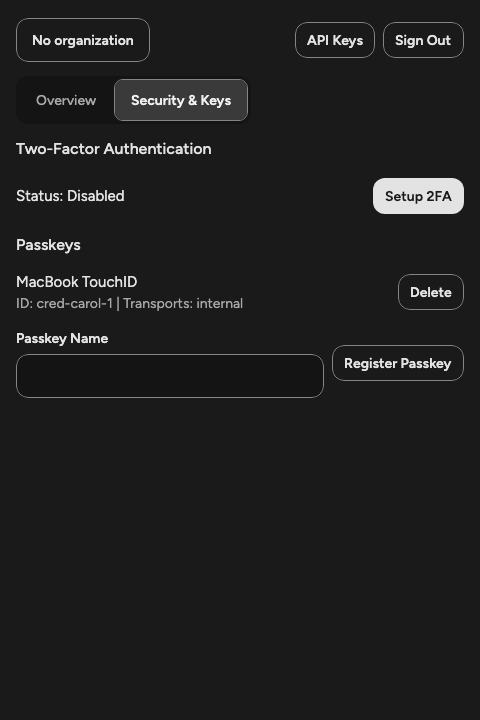
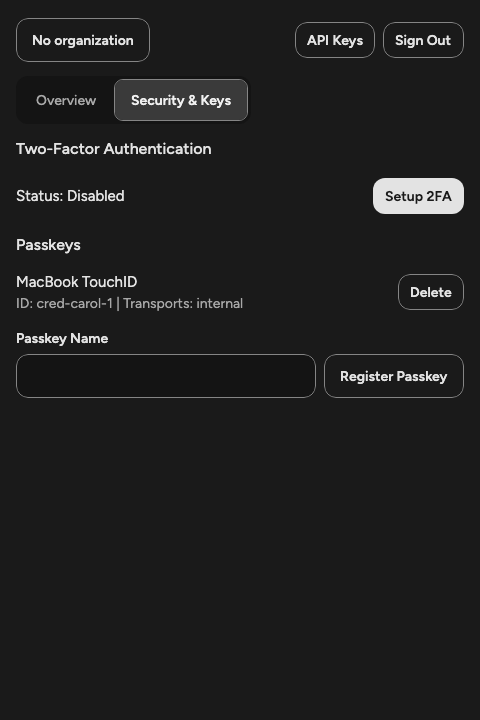
fix(#42): align Passkey Name input field and Register Passkey button

Changed region(s): [[0.6562, 0.4889, 0.9688, 0.55]]

diff --git a/sample/src/commonMain/kotlin/dev/fediim/auth/sample/presentation/ui/AuthenticatedWorkspaceScreen.kt b/sample/src/commonMain/kotlin/dev/fediim/auth/sample/presentation/ui/AuthenticatedWorkspaceScreen.kt
@@ -6,8 +6,10 @@ import androidx.compose.foundation.layout.Row
 import androidx.compose.foundation.layout.fillMaxWidth
 import androidx.compose.foundation.rememberScrollState
 import androidx.compose.foundation.verticalScroll
+import androidx.compose.material3.LocalMinimumInteractiveComponentSize
 import androidx.compose.material3.Text
 import androidx.compose.runtime.Composable
+import androidx.compose.runtime.CompositionLocalProvider
 import androidx.compose.runtime.collectAsState
 import androidx.compose.runtime.getValue
 import androidx.compose.runtime.mutableStateOf
@@ -15,6 +17,7 @@ import androidx.compose.runtime.remember
 import androidx.compose.runtime.setValue
 import androidx.compose.ui.Alignment
 import androidx.compose.ui.Modifier
+import androidx.compose.ui.platform.testTag
 import dev.fediim.auth.compose.ApiKeyViewModel
 import dev.fediim.auth.compose.AuthUiIntent
 import dev.fediim.auth.compose.BetterAuthViewModel
@@ -29,6 +32,7 @@ import dev.fediim.fds.components.CodeBlock
 import dev.fediim.fds.components.SegmentedControl
 import dev.fediim.fds.components.TextField
 import dev.fediim.fds.theme.FediimTheme
+import dev.fediim.fds.tokens.FediimSize
 import dev.fediim.fds.tokens.FediimSpace
 
 /**
@@ -222,24 +226,26 @@ public fun AuthenticatedWorkspaceScreen(
         Row(
             modifier = Modifier.fillMaxWidth(),
             horizontalArrangement = Arrangement.spacedBy(FediimSpace.Space2),
-            verticalAlignment = Alignment.CenterVertically,
+            verticalAlignment = Alignment.Bottom,
         ) {
           TextField(
               value = newPasskeyName,
               onValueChange = { newPasskeyName = it },
               label = "Passkey Name",
-              modifier = Modifier.weight(1f),
+              modifier = Modifier.weight(1f).testTag("sample.passkeyName"),
           )
-          Button(
-              text = "Register Passkey",
-              onClick = {
-                val name = newPasskeyName.ifBlank { "My Security Key" }
-                workspaceViewModel.registerPasskey(name)
-                newPasskeyName = ""
-              },
-              size = ButtonSize.Small,
-              variant = ButtonVariant.Secondary,
-          )
+          CompositionLocalProvider(LocalMinimumInteractiveComponentSize provides FediimSize.Touch) {
+            Button(
+                text = "Register Passkey",
+                onClick = {
+                  val name = newPasskeyName.ifBlank { "My Security Key" }
+                  workspaceViewModel.registerPasskey(name)
+                  newPasskeyName = ""
+                },
+                size = ButtonSize.Medium,
+                variant = ButtonVariant.Secondary,
+            )
+          }
         }
       }
     }

diff --git a/sample/src/jvmTest/kotlin/dev/fediim/auth/sample/SampleAppUiTest.kt b/sample/src/jvmTest/kotlin/dev/fediim/auth/sample/SampleAppUiTest.kt
@@ -6,12 +6,14 @@ import androidx.compose.ui.test.ComposeUiTest
 import androidx.compose.ui.test.ExperimentalTestApi
 import androidx.compose.ui.test.onAllNodesWithTag
 import androidx.compose.ui.test.onAllNodesWithText
+import androidx.compose.ui.test.onNodeWithTag
 import androidx.compose.ui.test.onNodeWithText
 import androidx.compose.ui.test.performClick
 import androidx.compose.ui.test.performTextReplacement
 import androidx.compose.ui.test.v2.runDesktopComposeUiTest
 import dev.fediim.auth.sample.di.SampleAppContainer
 import dev.fediim.auth.sample.presentation.ui.SampleApp
+import kotlin.math.abs
 import kotlin.test.Test
 import kotlin.test.assertTrue
 
@@ -57,6 +59,19 @@ class SampleAppUiTest {
         onNodeWithText("Security & Keys").performClick()
         waitForIdle()
 
+        val passkeyFieldBounds =
+            onNodeWithTag("sample.passkeyName").fetchSemanticsNode().boundsInRoot
+        val registerButtonBounds =
+            onNodeWithText("Register Passkey").fetchSemanticsNode().boundsInRoot
+        assertTrue(
+            abs(passkeyFieldBounds.bottom - registerButtonBounds.bottom) <= 1f,
+            "Expected Passkey Name input bottom (${passkeyFieldBounds.bottom}) and Register Passkey button bottom (${registerButtonBounds.bottom}) to align within 1dp",
+        )
+        assertTrue(
+            abs(registerButtonBounds.height - 44f) <= 1f,
+            "Expected Register Passkey button height (${registerButtonBounds.height}) to be 44dp",
+        )
+
         // 5. Register and delete passkey
         onNodeWithText("Register Passkey").performClick()
         until("Passkey registered") { hasText("My Security Key", substring = true) }
@@ -86,6 +101,16 @@ class SampleAppUiTest {
         // 10. Validated Live Server URL error banner
         onNodeWithText("Live Server").performClick()
         waitForIdle()
+        val urlFieldBounds = onNodeWithTag("sample.liveServerUrl").fetchSemanticsNode().boundsInRoot
+        val connectButtonBounds = onNodeWithText("Connect").fetchSemanticsNode().boundsInRoot
+        assertTrue(
+            abs(urlFieldBounds.bottom - connectButtonBounds.bottom) <= 1f,
+            "Expected Live Server URL input bottom (${urlFieldBounds.bottom}) and Connect button bottom (${connectButtonBounds.bottom}) to align within 1dp",
+        )
+        assertTrue(
+            abs(connectButtonBounds.height - 44f) <= 1f,
+            "Expected Connect button height (${connectButtonBounds.height}) to be 44dp",
+        )
         onNodeWithText("http://127.0.0.1:3000").performTextReplacement("http://evil.example.com")
         waitForIdle()
         onNodeWithText("Connect").performClick()

diff --git a/sample/src/commonMain/kotlin/dev/fediim/auth/sample/presentation/ui/SampleApp.kt b/sample/src/commonMain/kotlin/dev/fediim/auth/sample/presentation/ui/SampleApp.kt
@@ -7,8 +7,10 @@ import androidx.compose.foundation.layout.Row
 import androidx.compose.foundation.layout.fillMaxSize
 import androidx.compose.foundation.layout.fillMaxWidth
 import androidx.compose.foundation.layout.padding
+import androidx.compose.material3.LocalMinimumInteractiveComponentSize
 import androidx.compose.material3.Text
 import androidx.compose.runtime.Composable
+import androidx.compose.runtime.CompositionLocalProvider
 import androidx.compose.runtime.collectAsState
 import androidx.compose.runtime.getValue
 import androidx.compose.runtime.mutableStateOf
@@ -16,6 +18,7 @@ import androidx.compose.runtime.remember
 import androidx.compose.runtime.setValue
 import androidx.compose.ui.Alignment
 import androidx.compose.ui.Modifier
+import androidx.compose.ui.platform.testTag
 import dev.fediim.auth.fds.ApiKeyManagerDialog
 import dev.fediim.auth.fds.BetterAuthDialog
 import dev.fediim.auth.fds.TwoFactorSetupDialog
@@ -30,6 +33,7 @@ import dev.fediim.fds.components.ButtonVariant
 import dev.fediim.fds.components.SegmentedControl
 import dev.fediim.fds.components.TextField
 import dev.fediim.fds.theme.FediimTheme
+import dev.fediim.fds.tokens.FediimSize
 import dev.fediim.fds.tokens.FediimSpace
 
 /**
@@ -109,20 +113,22 @@ public fun SampleApp(
         Row(
             modifier = Modifier.fillMaxWidth(),
             horizontalArrangement = Arrangement.spacedBy(FediimSpace.Space2),
-            verticalAlignment = Alignment.CenterVertically,
+            verticalAlignment = Alignment.Bottom,
         ) {
           TextField(
               value = liveUrlInput,
               onValueChange = { liveUrlInput = it },
               label = "Live Server URL",
-              modifier = Modifier.weight(1f),
+              modifier = Modifier.weight(1f).testTag("sample.liveServerUrl"),
           )
-          Button(
-              text = "Connect",
-              onClick = { workspaceVm.switchEnvironment(BackendMode.LIVE_SERVER, liveUrlInput) },
-              size = ButtonSize.Small,
-              variant = ButtonVariant.Primary,
-          )
+          CompositionLocalProvider(LocalMinimumInteractiveComponentSize provides FediimSize.Touch) {
+            Button(
+                text = "Connect",
+                onClick = { workspaceVm.switchEnvironment(BackendMode.LIVE_SERVER, liveUrlInput) },
+                size = ButtonSize.Medium,
+                variant = ButtonVariant.Primary,
+            )
+          }
         }
       }
 
